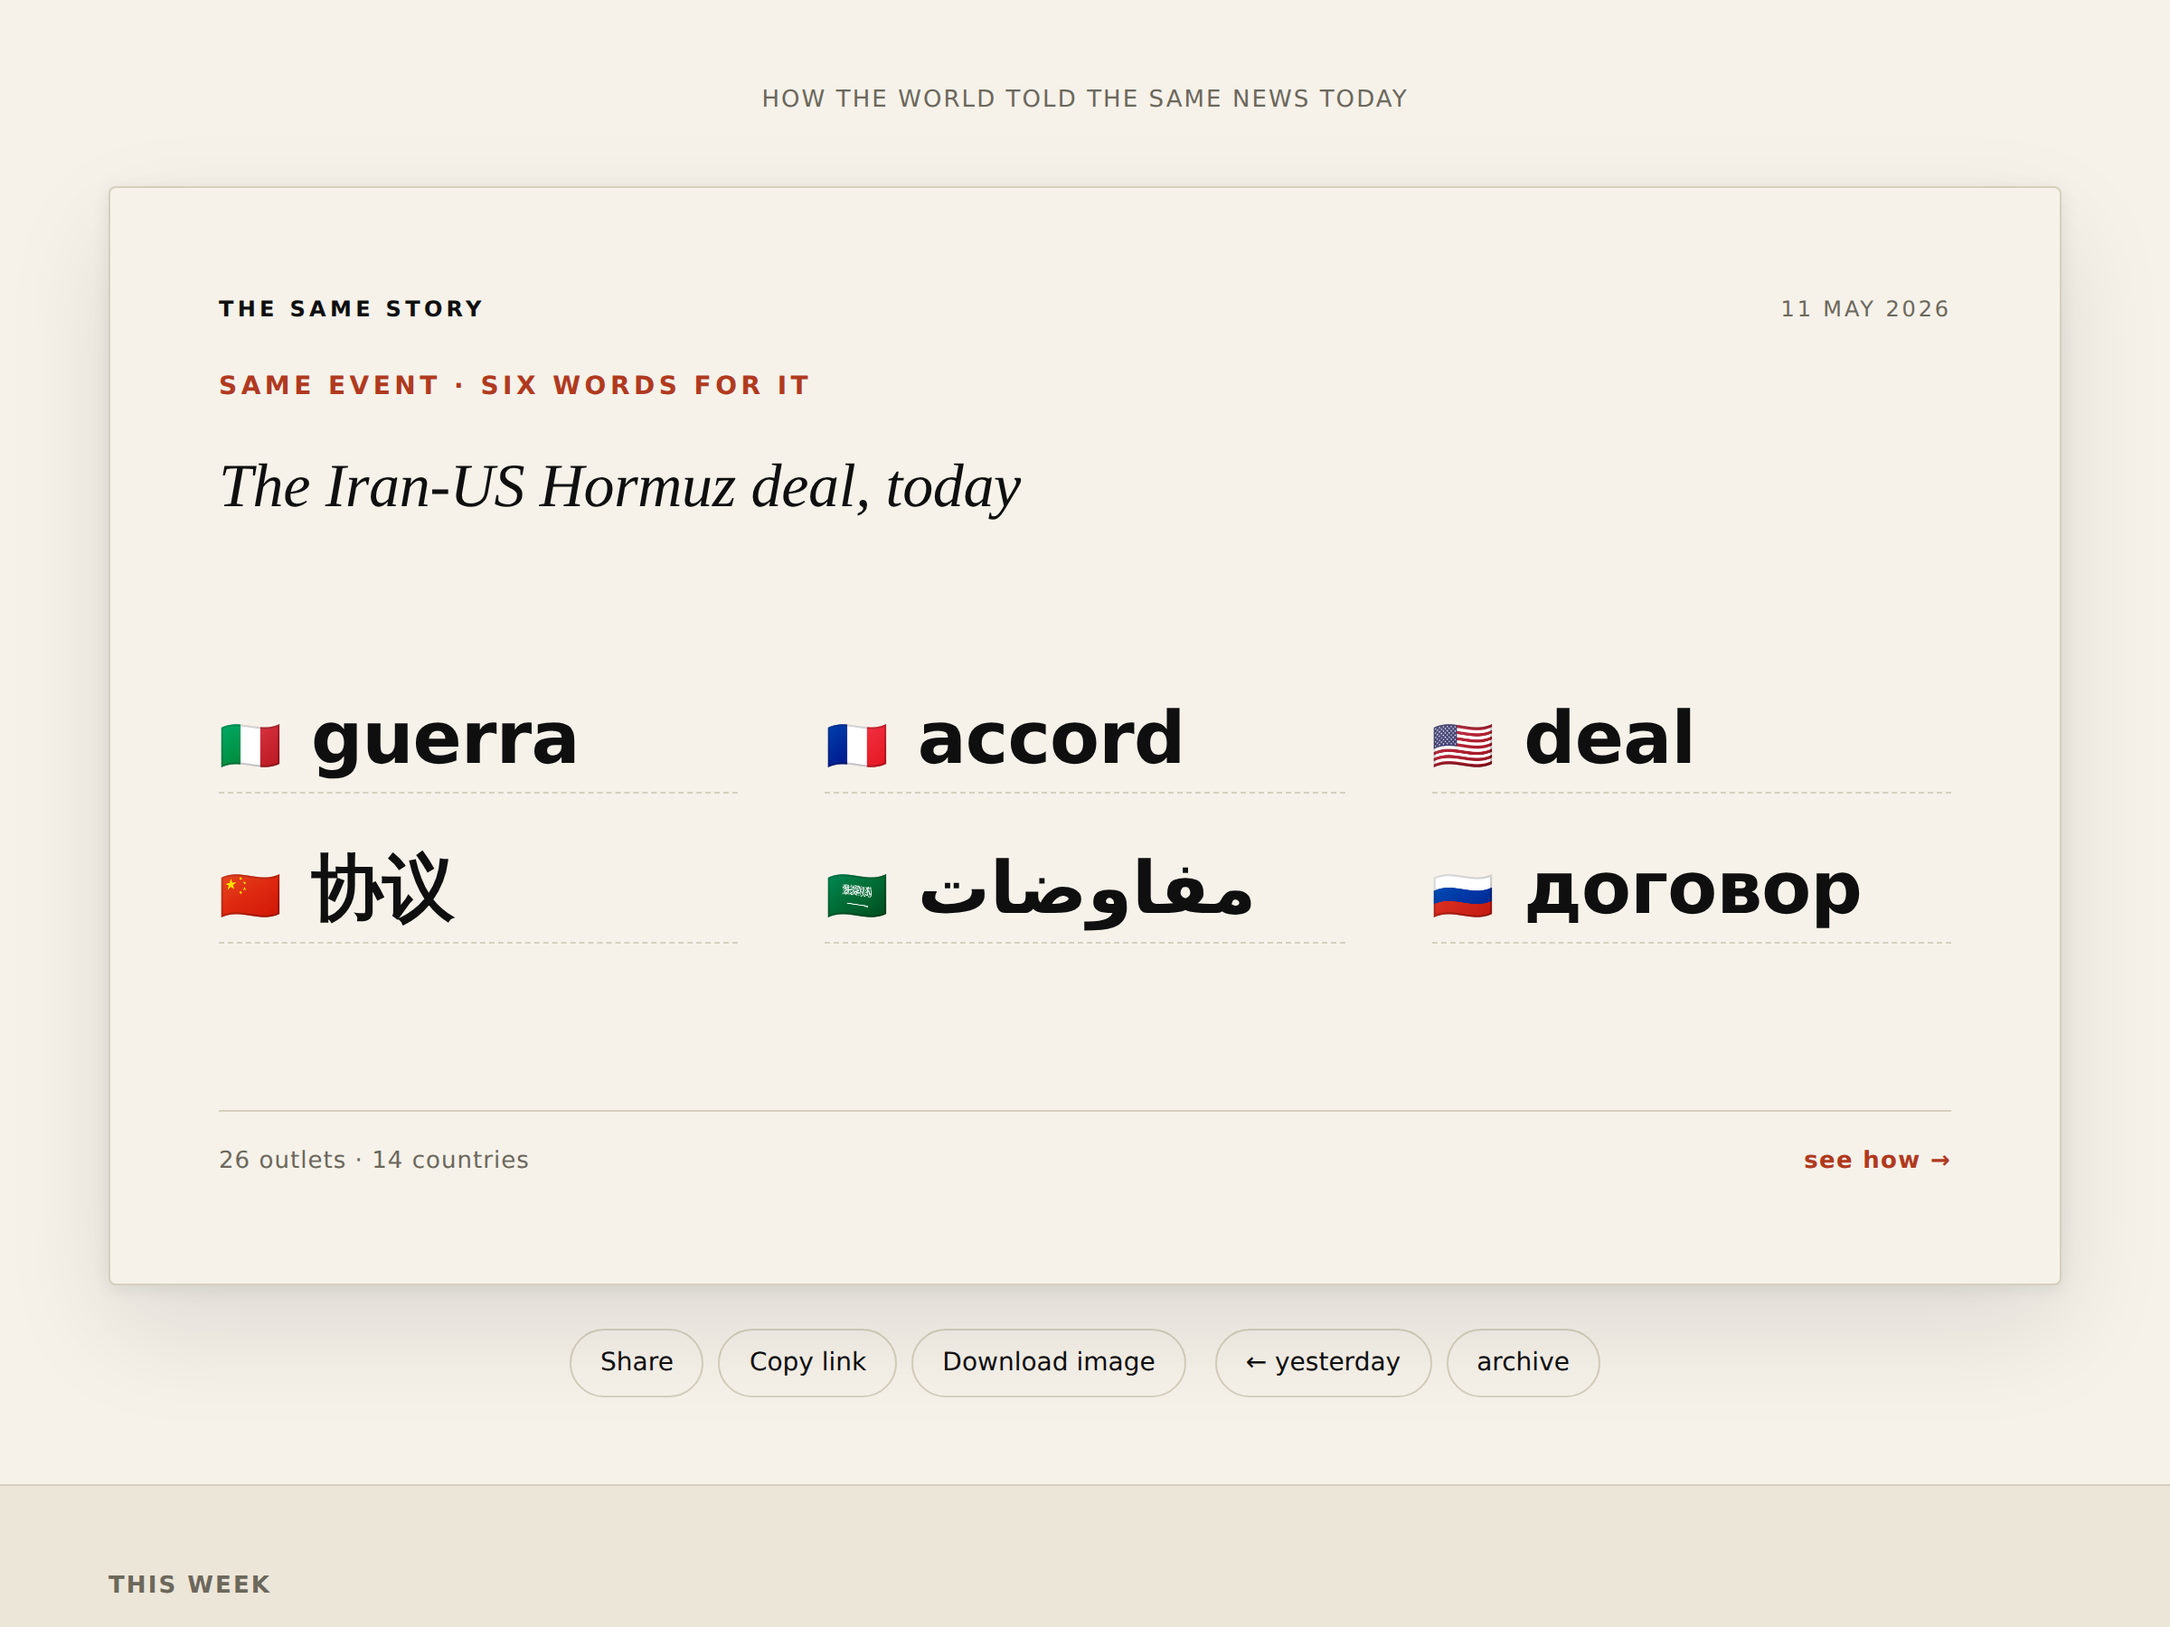
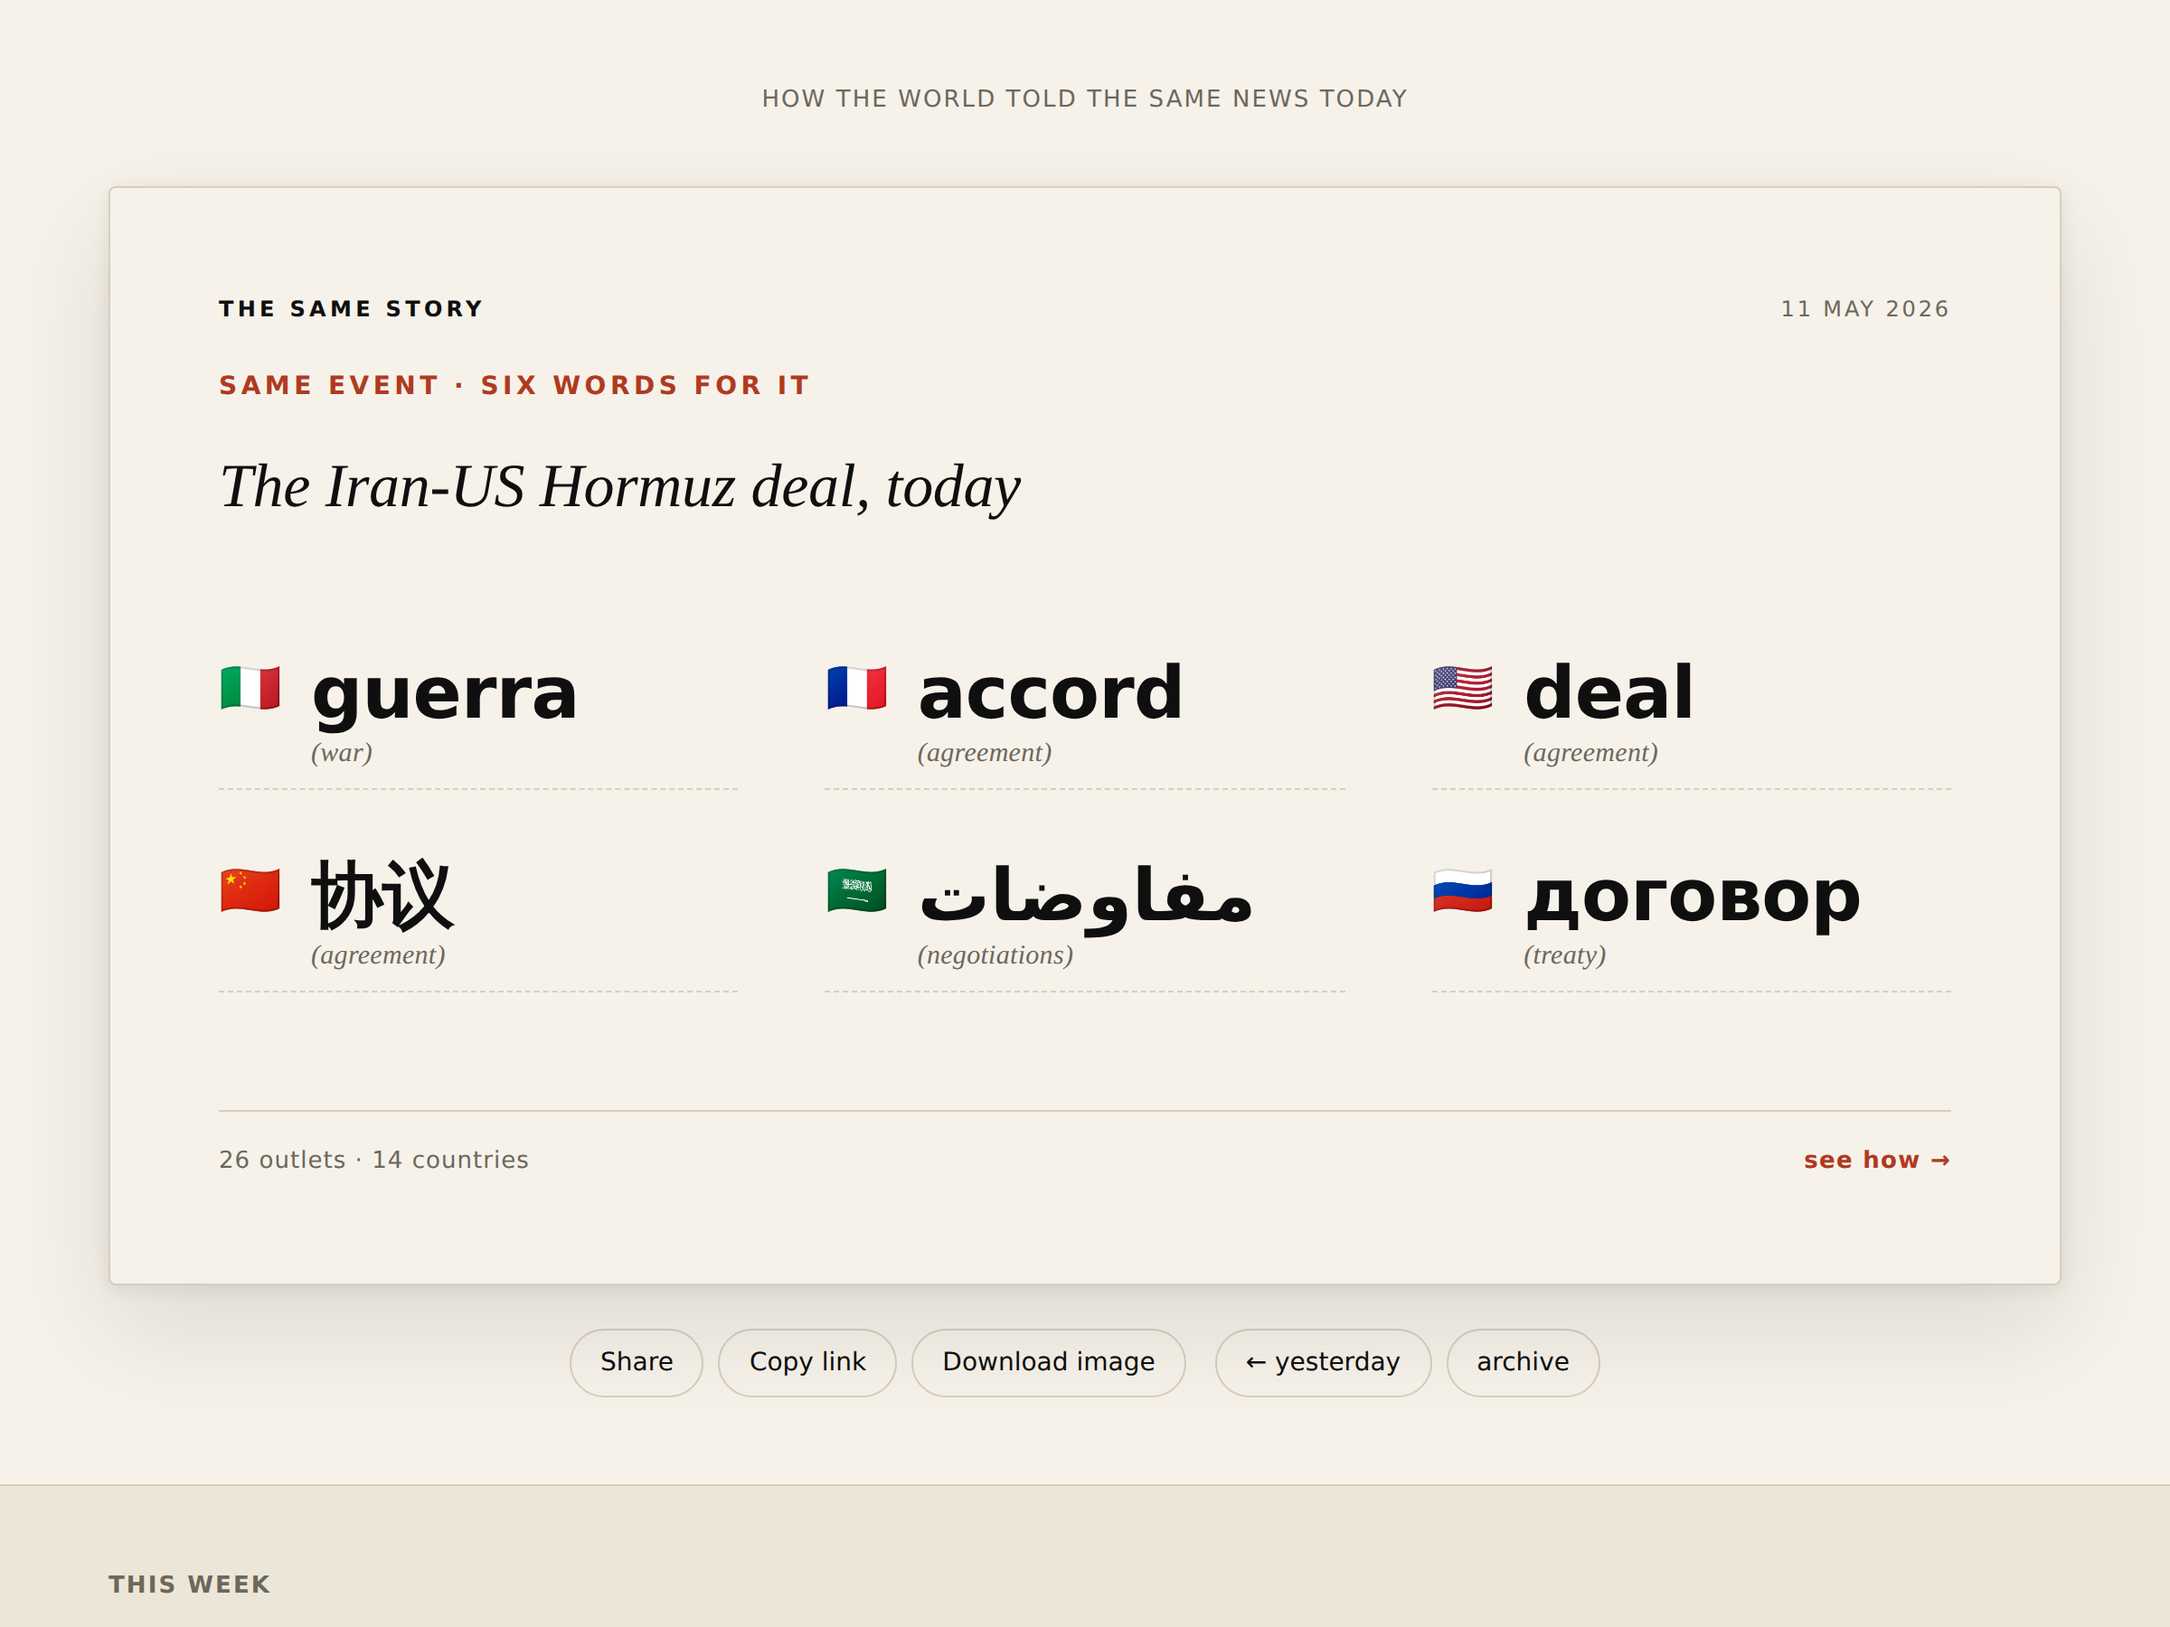
web: word translations + silence card redesign
Two iterations on the design draft after first-look review.

WORD card — translations under each foreign-language word.
  Every word-row now has a small italic bracketed translation
  below the bold word: guerra (war), accord (agreement), 协议
  (agreement), etc. English readers can see the editorial
  divergence at a glance — five outlets cluster around
  'agreement', Italian alone says 'war'. The translations are
  visually subordinate (serif italic, muted color, ~40% the
  word's size) so the foreign words stay the visual punchline.

  Markup: each .word-row is now flag + .word-stack containing
  .word + .translation. CSS adds .translation styling and
  switches .word-row alignment from baseline to flex-start.

SILENCE card — redesigned around the missing bucket as focal point.
  The previous 6-wide grid with subtle strikethrough on one flag
  was too quiet — the eye didn't land on the absent country. New
  design promotes the absent flag to a 160-220px square panel
  with a heavy red X overlay (two ::before/::after rotated bars),
  a muted+desaturated flag emoji, and an EGYPT · DIDN'T COVER
  label clipped to the bottom edge.

  The 12 countries that DID cover move to a small row below the
  replacement text, behind a "12 countries that did cover" label.
  Story now reads in this order: the absent country (focal) →
  what they ran instead → who did cover (context).

Verified via re-render — all 11 screenshots updated in place.

diff --git a/web/styles.css b/web/styles.css
@@ -186,23 +186,36 @@ main {
 /* ---------- Archetype 1: Word ---------- */
 .card--word .card-content {
   display: grid; grid-template-columns: repeat(2, 1fr);
-  gap: clamp(8px, 2vw, 24px) clamp(20px, 4vw, 56px);
+  gap: clamp(12px, 2.5vw, 28px) clamp(20px, 4vw, 56px);
   align-content: center;
 }
 @media (min-width: 900px) {
   .card--word .card-content { grid-template-columns: repeat(3, 1fr); }
 }
 .word-row {
-  display: flex; align-items: baseline;
+  display: flex; align-items: flex-start;
   gap: clamp(8px, 1.5vw, 16px);
-  padding: clamp(4px, 1vw, 8px) 0;
+  padding: clamp(6px, 1.2vw, 10px) 0;
   border-bottom: 1px dashed var(--rule);
 }
-.word-row .flag { font-size: clamp(20px, 2.8vw, 28px); line-height: 1; }
+.word-row .flag {
+  font-size: clamp(20px, 2.8vw, 28px); line-height: 1;
+  padding-top: 4px;  /* baseline-nudge so flag aligns with the word, not the descenders */
+}
+.word-row .word-stack {
+  display: flex; flex-direction: column; align-items: flex-start;
+  min-width: 0;  /* let it shrink in narrow grids */
+}
 .word-row .word {
   font-family: var(--font-display); font-weight: 800;
   font-size: clamp(24px, 3.4vw, 40px);
   letter-spacing: -0.01em; color: var(--ink); line-height: 1.05;
+}
+.word-row .translation {
+  font-family: var(--font-serif); font-style: italic;
+  font-size: clamp(12px, 1.4vw, 15px);
+  color: var(--ink-muted); margin-top: 4px;
+  letter-spacing: 0.01em;
 }
 
 /* ---------- Archetype 2: Paradox ---------- */
@@ -242,33 +255,92 @@ main {
 /* ---------- Archetype 3: Silence ---------- */
 .card--silence .card-content {
   display: grid; grid-template-columns: 1fr;
-  gap: clamp(16px, 3vw, 28px); align-content: center;
+  gap: clamp(20px, 3.5vw, 36px);
+  align-content: center;
 }
 @media (min-width: 720px) {
   .card--silence .card-content {
-    grid-template-columns: auto 1fr; align-items: center;
+    grid-template-columns: auto 1fr;
+    align-items: center;
+    column-gap: clamp(24px, 4vw, 56px);
   }
 }
-.silence-grid {
-  display: grid; grid-template-columns: repeat(6, 1fr);
-  gap: clamp(6px, 1vw, 10px); max-width: 320px;
+
+/* The missing bucket — the visual focal point. */
+.silence-absent {
+  position: relative;
+  width: clamp(160px, 22vw, 220px);
+  aspect-ratio: 1 / 1;
+  display: flex;
+  align-items: center;
+  justify-content: center;
+  background: var(--bg-soft);
+  border: 1px solid var(--rule);
+  border-radius: var(--radius);
+  flex-shrink: 0;
 }
-.silence-grid .flag {
-  font-size: clamp(24px, 3.4vw, 36px); line-height: 1;
-  text-align: center; padding: 4px;
-  border-radius: 4px; background: var(--bg-soft);
+.silence-absent .flag {
+  font-size: clamp(90px, 13vw, 140px);
+  line-height: 1;
+  opacity: 0.55;
+  filter: saturate(0.55);
 }
-.silence-grid .flag.absent { opacity: 0.22; position: relative; }
-.silence-grid .flag.absent::after {
-  content: ""; position: absolute; inset: 50% 10% auto;
-  height: 2px; background: var(--accent); transform: rotate(-12deg);
+.silence-absent::before,
+.silence-absent::after {
+  content: "";
+  position: absolute;
+  inset: 12% auto auto 12%;
+  width: 76%;
+  height: 6px;
+  background: var(--accent);
+  border-radius: 3px;
+  transform-origin: 0% 50%;
 }
+.silence-absent::before {
+  transform: rotate(34deg);
+  top: 14%;
+}
+.silence-absent::after {
+  transform: rotate(-34deg);
+  top: 78%;
+}
+.silence-absent .silence-label {
+  position: absolute;
+  bottom: -28px;
+  left: 50%;
+  transform: translateX(-50%);
+  white-space: nowrap;
+  font-size: 11px;
+  letter-spacing: 0.18em;
+  text-transform: uppercase;
+  color: var(--accent);
+  font-weight: 700;
+}
+
+/* Right-hand column: what they ran instead + tiny row of who DID cover. */
 .silence-replacement {
-  margin: 0; font-family: var(--font-serif);
-  font-size: clamp(17px, 2.2vw, 22px); line-height: 1.4;
+  margin: 0 0 clamp(14px, 2.5vw, 22px);
+  font-family: var(--font-serif);
+  font-size: clamp(18px, 2.4vw, 24px); line-height: 1.35;
   font-style: italic; color: var(--ink);
 }
-.silence-replacement strong { font-style: normal; font-weight: 700; color: var(--accent); }
+.silence-replacement strong {
+  font-style: normal; font-weight: 700; color: var(--accent);
+}
+.silence-covered {
+  display: flex; flex-direction: column; gap: 6px;
+  padding-top: clamp(10px, 1.6vw, 16px);
+  border-top: 1px solid var(--rule);
+}
+.silence-covered-label {
+  font-size: 11px; letter-spacing: 0.14em; text-transform: uppercase;
+  color: var(--ink-muted); font-weight: 600;
+}
+.silence-covered-row {
+  display: flex; flex-wrap: wrap; gap: clamp(4px, 0.8vw, 8px);
+  font-size: clamp(18px, 2.2vw, 24px); line-height: 1;
+}
+.silence-covered-row .flag { display: inline-block; }
 
 /* ---------- Archetype 4: Shift ---------- */
 .card--shift .card-content {

diff --git a/web/samples/word.html b/web/samples/word.html
@@ -18,12 +18,48 @@
     <p class="card-eyebrow">Same event · six words for it</p>
     <h1 class="card-headline">The Iran-US Hormuz deal, today</h1>
     <div class="card-content">
-      <div class="word-row"><span class="flag">🇮🇹</span><span class="word">guerra</span></div>
-      <div class="word-row"><span class="flag">🇫🇷</span><span class="word">accord</span></div>
-      <div class="word-row"><span class="flag">🇺🇸</span><span class="word">deal</span></div>
-      <div class="word-row"><span class="flag">🇨🇳</span><span class="word">协议</span></div>
-      <div class="word-row"><span class="flag">🇸🇦</span><span class="word">مفاوضات</span></div>
-      <div class="word-row"><span class="flag">🇷🇺</span><span class="word">договор</span></div>
+      <div class="word-row">
+        <span class="flag">🇮🇹</span>
+        <span class="word-stack">
+          <span class="word">guerra</span>
+          <span class="translation">(war)</span>
+        </span>
+      </div>
+      <div class="word-row">
+        <span class="flag">🇫🇷</span>
+        <span class="word-stack">
+          <span class="word">accord</span>
+          <span class="translation">(agreement)</span>
+        </span>
+      </div>
+      <div class="word-row">
+        <span class="flag">🇺🇸</span>
+        <span class="word-stack">
+          <span class="word">deal</span>
+          <span class="translation">(agreement)</span>
+        </span>
+      </div>
+      <div class="word-row">
+        <span class="flag">🇨🇳</span>
+        <span class="word-stack">
+          <span class="word">协议</span>
+          <span class="translation">(agreement)</span>
+        </span>
+      </div>
+      <div class="word-row">
+        <span class="flag">🇸🇦</span>
+        <span class="word-stack">
+          <span class="word">مفاوضات</span>
+          <span class="translation">(negotiations)</span>
+        </span>
+      </div>
+      <div class="word-row">
+        <span class="flag">🇷🇺</span>
+        <span class="word-stack">
+          <span class="word">договор</span>
+          <span class="translation">(treaty)</span>
+        </span>
+      </div>
     </div>
     <footer class="card-byline">
       <span>26 outlets · 14 countries</span>

diff --git a/web/samples/silence.html b/web/samples/silence.html
@@ -18,16 +18,21 @@
     <p class="card-eyebrow">12 countries covered this · 1 didn't</p>
     <h1 class="card-headline">Egypt's papers ignored the Hormuz deal today</h1>
     <div class="card-content">
-      <div class="silence-grid" aria-label="Country coverage map">
-        <span class="flag">🇮🇹</span><span class="flag">🇫🇷</span><span class="flag">🇺🇸</span>
-        <span class="flag">🇬🇧</span><span class="flag">🇩🇪</span><span class="flag">🇪🇸</span>
-        <span class="flag">🇸🇦</span><span class="flag">🇶🇦</span><span class="flag">🇮🇷</span>
-        <span class="flag">🇨🇳</span><span class="flag">🇯🇵</span><span class="flag">🇮🇳</span>
-        <span class="flag">🇧🇷</span><span class="flag">🇷🇺</span><span class="flag absent" title="Did not cover">🇪🇬</span>
+      <div class="silence-absent" aria-label="Egypt did not cover this story">
+        <span class="flag">🇪🇬</span>
+        <span class="silence-label">Egypt · didn't cover</span>
       </div>
-      <p class="silence-replacement">
-        They ran <strong>Sisi's emergency announcement on water rationing</strong> across the front page. The Hormuz deal didn't appear.
-      </p>
+      <div>
+        <p class="silence-replacement">
+          They ran <strong>Sisi's emergency announcement on water rationing</strong> across the front page. The Hormuz deal didn't appear.
+        </p>
+        <div class="silence-covered">
+          <span class="silence-covered-label">12 countries that did cover</span>
+          <div class="silence-covered-row" aria-label="Countries covering the story">
+            <span class="flag">🇮🇹</span><span class="flag">🇫🇷</span><span class="flag">🇺🇸</span><span class="flag">🇬🇧</span><span class="flag">🇩🇪</span><span class="flag">🇪🇸</span><span class="flag">🇸🇦</span><span class="flag">🇶🇦</span><span class="flag">🇮🇷</span><span class="flag">🇨🇳</span><span class="flag">🇯🇵</span><span class="flag">🇮🇳</span>
+          </div>
+        </div>
+      </div>
     </div>
     <footer class="card-byline">
       <span>15 buckets active · 12 carried this story</span>

diff --git a/web/index.html b/web/index.html
@@ -43,12 +43,48 @@
     <h1 class="card-headline">The Iran-US Hormuz deal, today</h1>
 
     <div class="card-content">
-      <div class="word-row"><span class="flag">🇮🇹</span><span class="word">guerra</span></div>
-      <div class="word-row"><span class="flag">🇫🇷</span><span class="word">accord</span></div>
-      <div class="word-row"><span class="flag">🇺🇸</span><span class="word">deal</span></div>
-      <div class="word-row"><span class="flag">🇨🇳</span><span class="word">协议</span></div>
-      <div class="word-row"><span class="flag">🇸🇦</span><span class="word">مفاوضات</span></div>
-      <div class="word-row"><span class="flag">🇷🇺</span><span class="word">договор</span></div>
+      <div class="word-row">
+        <span class="flag">🇮🇹</span>
+        <span class="word-stack">
+          <span class="word">guerra</span>
+          <span class="translation">(war)</span>
+        </span>
+      </div>
+      <div class="word-row">
+        <span class="flag">🇫🇷</span>
+        <span class="word-stack">
+          <span class="word">accord</span>
+          <span class="translation">(agreement)</span>
+        </span>
+      </div>
+      <div class="word-row">
+        <span class="flag">🇺🇸</span>
+        <span class="word-stack">
+          <span class="word">deal</span>
+          <span class="translation">(agreement)</span>
+        </span>
+      </div>
+      <div class="word-row">
+        <span class="flag">🇨🇳</span>
+        <span class="word-stack">
+          <span class="word">协议</span>
+          <span class="translation">(agreement)</span>
+        </span>
+      </div>
+      <div class="word-row">
+        <span class="flag">🇸🇦</span>
+        <span class="word-stack">
+          <span class="word">مفاوضات</span>
+          <span class="translation">(negotiations)</span>
+        </span>
+      </div>
+      <div class="word-row">
+        <span class="flag">🇷🇺</span>
+        <span class="word-stack">
+          <span class="word">договор</span>
+          <span class="translation">(treaty)</span>
+        </span>
+      </div>
     </div>
 
     <footer class="card-byline">
